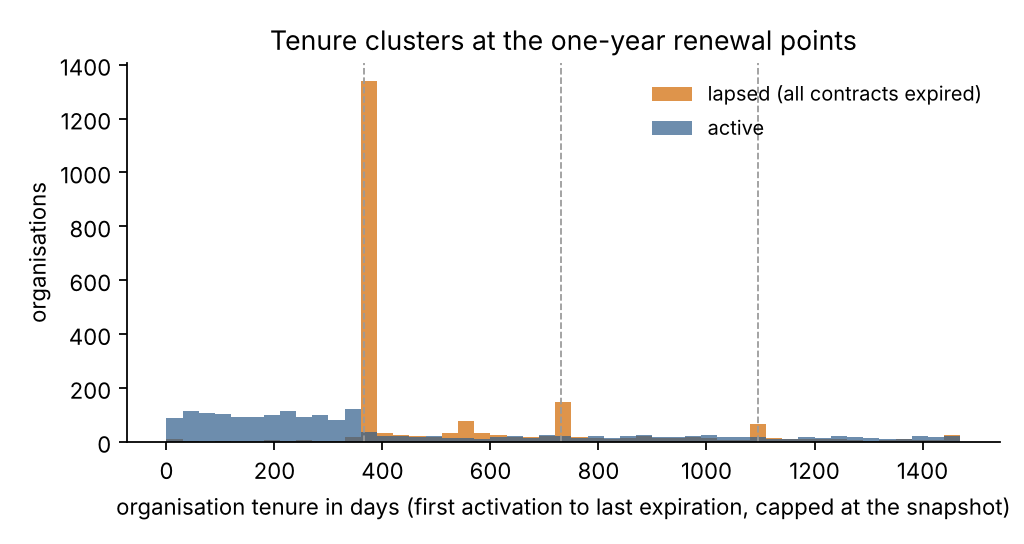
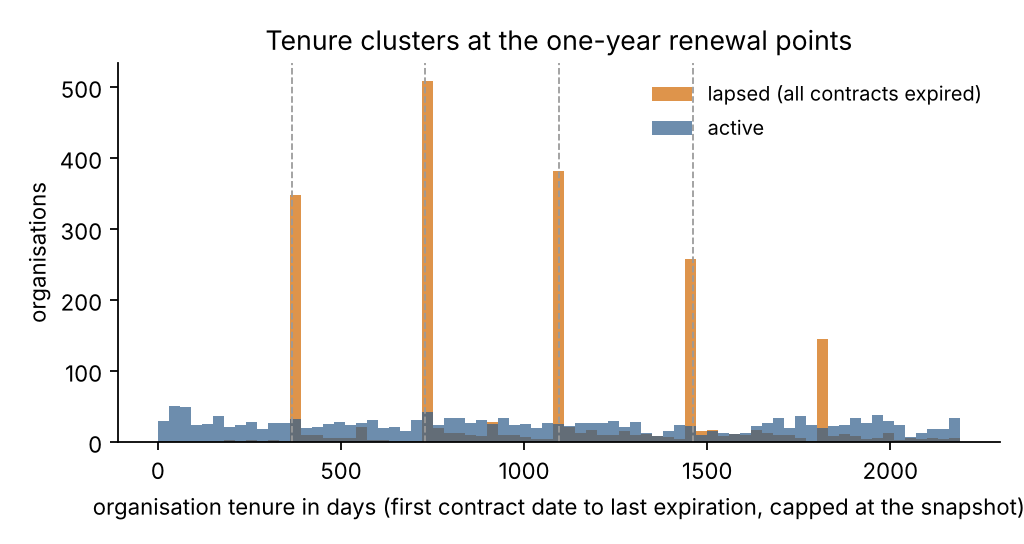
activation_date is the current term start, not the activation: tenure and new-customer counts from contract_date

diff --git a/scripts/fleet_snapshot_findings.py b/scripts/fleet_snapshot_findings.py
@@ -86,33 +86,47 @@ def fig_anomaly_combos(an: pd.DataFrame, out: Path):
     return counts, combo
 
 
-def fig_activations(con: pd.DataFrame, out: Path):
-    # 5 rows are dated after the snapshot (pre-registered activations); exclude them and the partial month
-    c = con[(con.activation_date >= "2021-01-01") & (con.activation_date <= SNAP)].copy()
-    c["month"] = c.activation_date.dt.to_period("M").dt.to_timestamp()
-    c["kind"] = np.where(c.prev_device_key.isna(), "first device on the row (organic)", "replacement (previous device recorded)")
-    m = c.groupby(["month", "kind"]).size().unstack(fill_value=0)
+def org_lifecycle_from_contracts(con: pd.DataFrame, org: pd.DataFrame) -> pd.DataFrame:
+    """Organisation start = earliest contract_date (the original sale), end = latest expiration capped at the snapshot.
+
+    `activation_date` is the start of the *current* term and is rolled forward by the CRM at every renewal,
+    so it cannot date the start of a relationship; `contract_date` can.
+    """
+    c = con[~con.is_internal_test].copy()
+    c["start"] = c.contract_date.fillna(c.activation_date)
+    g = c.groupby("org_key").agg(start=("start", "min"), end=("expiration_date", "max"))
+    g["end"] = g["end"].clip(upper=SNAP)
+    g["tenure_days"] = (g["end"] - g["start"]).dt.days
+    g = g.join(org.set_index("org_key")[["org_lifecycle_status", "is_internal_test"]], how="left")
+    g.loc[g.tenure_days < 0, "tenure_days"] = np.nan  # expiration before the first contract date: inconsistent rows
+    return g[g.start.notna()]
+
+
+def fig_new_customers(lifecycle: pd.DataFrame, out: Path):
+    # one point per organisation at its first contract date; the partial month is excluded
+    s = lifecycle[(lifecycle.start >= "2021-01-01") & (lifecycle.start < SNAP.to_period("M").to_timestamp())]
+    m = s.groupby(s.start.dt.to_period("M").dt.to_timestamp()).size()
     fig, ax = plt.subplots(figsize=(7, 3.4))
-    ax.stackplot(m.index, [m.iloc[:, 0], m.iloc[:, 1]], labels=list(m.columns), colors=[C1, C2], alpha=0.9)
-    ax.set_title("Device activations per month, 2021-01 to 2026-09 (Sep. partial, to the 28th)")
-    ax.set_ylabel("contract rows activated")
-    ax.legend(loc="upper left", frameon=False, fontsize=8)
+    ax.plot(m.index, m.values, color=C1)
+    ax.set_title("New customer organisations per month (first contract date), 2021-01 to 2026-08")
+    ax.set_ylabel("organisations")
+    ax.set_ylim(0, None)
     ax.spines[["top", "right"]].set_visible(False)
     fig.tight_layout()
-    fig.savefig(out / "04_activations_per_month.png", dpi=160)
+    fig.savefig(out / "04_new_customers_per_month.png", dpi=160)
     plt.close(fig)
     return m
 
 
-def fig_tenure(org: pd.DataFrame, out: Path):
-    o = org[~org.is_internal_test & org.tenure_days.notna() & (org.tenure_days >= 0)]
+def fig_tenure(lifecycle: pd.DataFrame, out: Path):
+    o = lifecycle[lifecycle.tenure_days.notna()]
     fig, ax = plt.subplots(figsize=(6.4, 3.4))
-    bins = np.arange(0, 1500, 30)
+    bins = np.arange(0, 2200, 30)
     ax.hist(o.loc[o.org_lifecycle_status == "lapsed", "tenure_days"], bins=bins, color=C2, alpha=0.85, label="lapsed (all contracts expired)")
     ax.hist(o.loc[o.org_lifecycle_status == "active", "tenure_days"], bins=bins, color=C1, alpha=0.7, label="active")
-    for d in (365, 730, 1095):
+    for d in (365, 730, 1095, 1460):
         ax.axvline(d, color=C4, lw=0.8, ls="--")
-    ax.set_xlabel("organisation tenure in days (first activation to last expiration, capped at the snapshot)")
+    ax.set_xlabel("organisation tenure in days (first contract date to last expiration, capped at the snapshot)")
     ax.set_ylabel("organisations")
     ax.set_title("Tenure clusters at the one-year renewal points")
     ax.legend(frameon=False, fontsize=9)
@@ -144,8 +158,9 @@ def main(argv=None):
     g_hw = fig_online_by_hw(dev, figs)
     modes = fig_mode_mix(dev, figs)
     combos, combo = fig_anomaly_combos(an, figs)
-    act = fig_activations(con, figs)
-    ten = fig_tenure(org, figs)
+    life = org_lifecycle_from_contracts(con, org)
+    fig_new_customers(life, figs)
+    fig_tenure(life, figs)
 
     online = (rep.connect_status == "Online").mean()
     lowbatt = (rep["mode"] == "LowBattery").mean()
@@ -177,15 +192,15 @@ def main(argv=None):
     # customers
     o = org[~org.is_internal_test]
     status = o.org_lifecycle_status.value_counts()
-    q = o.tenure_days.dropna().quantile([0.1, 0.25, 0.5, 0.75, 0.9]).round(0).astype(int)
+    q = life.tenure_days.dropna().quantile([0.1, 0.25, 0.5, 0.75, 0.9]).round(0).astype(int)
     fleet = o.vehicles_ever.dropna()
     term = (con.expiration_date - con.activation_date).dt.days
     one_year = (term == 365).sum() / term.notna().sum()
-    returns = con[con.return_date.notna() & con.activation_date.notna()]
-    life = (returns.return_date - returns.activation_date).dt.days
-    life = life[life >= 0]  # 25 rows have a return date before activation (see data-quality report)
-    act_year = con.activation_date.dt.year.value_counts().sort_index()
-    repl_share_2026 = (con[(con.activation_date.dt.year == 2026)].prev_device_key.notna()).mean()
+    gap = (con.activation_date - con.contract_date).dt.days.dropna()
+    rolled = ((gap - (gap / 365).round() * 365).abs() <= 7).mean()
+    renewed_rows = (gap >= 300).mean()
+    new_year = life.start.dt.year.value_counts().sort_index()
+    repl_rows_2026 = con[(con.activation_date.dt.year == 2026) & ~con.is_internal_test].prev_device_key.notna().mean()
     make = veh.make.value_counts(normalize=True)
 
     md = f"""# Fleet snapshot findings — 2026-09-28
@@ -217,12 +232,12 @@ Computed from the public tables by `scripts/fleet_snapshot_findings.py`. "Custom
 
 - **{len(o):,} organisations** appear across the CRM, the app master and the contract history. Lifecycle at the snapshot: **{status.get('active', 0):,} active**, **{status.get('lapsed', 0):,} lapsed** (every contract expired, none active), {status.get('inactive_not_expired', 0):,} inactive but not yet expired, {status.get('no_dates', 0):,} without usable dates.
 - The business is **owner-operator heavy**: median fleet ever contracted is **{fleet.median():.0f} vehicle(s)**, 90 % of organisations have **≤ {fleet.quantile(0.9):.0f}** and 99 % **≤ {fleet.quantile(0.99):.0f}**.
-- Contracts are one-year terms: **{pct(one_year)} of activation→expiration spans are exactly 365 days**, and organisation tenure clusters at the renewal points — 10/25/50/75/90th percentiles of **{q[0.1]}/{q[0.25]}/{q[0.5]}/{q[0.75]}/{q[0.9]} days** (figure 5). The first renewal is the decisive churn moment.
-- Among the {len(life):,} units with a return date, the median lifetime was **{life.median():.0f} days** after activation and **{pct((life < 365).mean())} were returned before the first anniversary** — churn is overwhelmingly a first-year event.
-- Activations grew every year — {', '.join(f'{int(y)}: {int(n):,}' for y, n in act_year.items() if y >= 2021)} (2026 through September) — and in 2026 **{pct(repl_share_2026)} of activations carried a previous device**, i.e. the hardware-generation migration is a large share of volume (figure 4).
+- Contracts are one-year terms: **{pct(one_year)} of activation→expiration spans are exactly 365 days**. `activation_date` is the start of the *current* term, not the day the device went live — the CRM rolls it forward at every renewal ({pct(rolled)} of the activation−contract gaps are whole multiples of 365 days and {pct(renewed_rows)} of rows have been renewed at least once). Time since the sale has to be measured from `contract_date`.
+- Measured that way, organisation tenure (first contract date to last expiration, capped at the snapshot) has 10/25/50/75/90th percentiles of **{q[0.1]}/{q[0.25]}/{q[0.5]}/{q[0.75]}/{q[0.9]} days** and clusters at the anniversaries (figure 5). Which anniversary customers leave at, and how the hazard has moved over time, is the subject of the `eld-subscription-lifecycle` repository.
+- New customer organisations per year (first contract date): {', '.join(f'{int(y)}: {int(n):,}' for y, n in new_year.items() if y >= 2021)} (2026 through August; the earlier years are thinned because the CRM purges rows of customers who left — quantified in `eld-subscription-lifecycle`). Counting `activation_date` instead would show 3,468 "activations" in 2026, most of them renewals of older customers; {pct(repl_rows_2026)} of the rows whose current term started in 2026 carry a previous device, which is the hardware-generation migration, not new business.
 - Vehicles are heavy-duty tractors: **{pct(make.get('Freightliner', 0))} Freightliner, {pct(make.get('Volvo', 0))} Volvo**, median model year {veh.model_year.median():.0f}, **{pct((veh.state == 'CA').mean())} registered in California**.
 
-![activations](figures/04_activations_per_month.png)
+![new customers](figures/04_new_customers_per_month.png)
 ![tenure](figures/05_org_tenure.png)
 
 ## 4. What this snapshot cannot tell you

diff --git a/scripts/make_data_dictionary.py b/scripts/make_data_dictionary.py
@@ -121,14 +121,14 @@ COLS = {
     "contract_rows": "Number of contract rows for the organisation.",
     "contract_rows_active": "Contract rows with status 'active'.",
     "vehicles_ever": "Distinct VINs ever contracted by the organisation.",
-    "first_activation": "Earliest activation date across the organisation's contract rows.",
+    "first_activation": "Earliest activation_date across the organisation's contract rows. activation_date is the start of the current term (rolled forward at renewal), so this is not the start of the relationship; use the earliest contract_date for that.",
     "last_expiration": "Latest expiration date across the organisation's contract rows.",
-    "tenure_days": "last_expiration (capped at 2026-09-28) minus first_activation.",
+    "tenure_days": "last_expiration (capped at 2026-09-28) minus first_activation; understates tenure for renewed customers for the reason given under first_activation.",
     "org_lifecycle_status": "active (≥1 active row) / lapsed (all expired, none active) / inactive_not_expired / no_dates, as of 2026-09-28.",
     # contract
     "eld_type": "Product generation code (rtps47, rtoa47 → gen 1; rtel47 → gen 2; rtps12, rtsa12 → gen 3; rtha55 → gen 4).",
-    "contract_date": "Contract date.",
-    "activation_date": "Device activation date.",
+    "contract_date": "Date the vehicle slot was first sold; inherited by a replacement device.",
+    "activation_date": "Start of the current one-year term. The CRM rolls it forward at each renewal, so it is not the date the device went live.",
     "expiration_date": "Contract expiration date.",
     "return_date": "Device return date, when returned.",
     "vehicle_limit": "Vehicle limit on the contract row.",

diff --git a/reports/fleet_snapshot_2026-09-28.md b/reports/fleet_snapshot_2026-09-28.md
@@ -27,12 +27,12 @@ Computed from the public tables by `scripts/fleet_snapshot_findings.py`. "Custom
 
 - **5,667 organisations** appear across the CRM, the app master and the contract history. Lifecycle at the snapshot: **2,025 active**, **2,224 lapsed** (every contract expired, none active), 359 inactive but not yet expired, 700 without usable dates.
 - The business is **owner-operator heavy**: median fleet ever contracted is **2 vehicle(s)**, 90 % of organisations have **≤ 5** and 99 % **≤ 14**.
-- Contracts are one-year terms: **74.1% of activation→expiration spans are exactly 365 days**, and organisation tenure clusters at the renewal points — 10/25/50/75/90th percentiles of **123/300/365/730/1180 days** (figure 5). The first renewal is the decisive churn moment.
-- Among the 3,808 units with a return date, the median lifetime was **266 days** after activation and **89.9% were returned before the first anniversary** — churn is overwhelmingly a first-year event.
-- Activations grew every year — 2021: 222, 2022: 1,474, 2023: 1,587, 2024: 2,356, 2025: 2,516, 2026: 3,468 (2026 through September) — and in 2026 **82.4% of activations carried a previous device**, i.e. the hardware-generation migration is a large share of volume (figure 4).
+- Contracts are one-year terms: **74.1% of activation→expiration spans are exactly 365 days**. `activation_date` is the start of the *current* term, not the day the device went live — the CRM rolls it forward at every renewal (92.6% of the activation−contract gaps are whole multiples of 365 days and 68.7% of rows have been renewed at least once). Time since the sale has to be measured from `contract_date`.
+- Measured that way, organisation tenure (first contract date to last expiration, capped at the snapshot) has 10/25/50/75/90th percentiles of **365/714/1095/1594/2023 days** and clusters at the anniversaries (figure 5). Which anniversary customers leave at, and how the hazard has moved over time, is the subject of the `eld-subscription-lifecycle` repository.
+- New customer organisations per year (first contract date): 2021: 1,078, 2022: 822, 2023: 763, 2024: 672, 2025: 448, 2026: 294 (2026 through August; the earlier years are thinned because the CRM purges rows of customers who left — quantified in `eld-subscription-lifecycle`). Counting `activation_date` instead would show 3,468 "activations" in 2026, most of them renewals of older customers; 82.4% of the rows whose current term started in 2026 carry a previous device, which is the hardware-generation migration, not new business.
 - Vehicles are heavy-duty tractors: **66.8% Freightliner, 25.1% Volvo**, median model year 2020, **81.6% registered in California**.
 
-![activations](figures/04_activations_per_month.png)
+![new customers](figures/04_new_customers_per_month.png)
 ![tenure](figures/05_org_tenure.png)
 
 ## 4. What this snapshot cannot tell you

diff --git a/data/public/DATA_DICTIONARY.md b/data/public/DATA_DICTIONARY.md
@@ -133,10 +133,10 @@ Grain: org_key. Rows: 5,675.
 | `contract_rows` | float64 | 94% | Number of contract rows for the organisation. |
 | `contract_rows_active` | float64 | 94% | Contract rows with status 'active'. |
 | `vehicles_ever` | float64 | 94% | Distinct VINs ever contracted by the organisation. |
-| `first_activation` | datetime64[ns] | 85% | Earliest activation date across the organisation's contract rows. |
+| `first_activation` | datetime64[ns] | 85% | Earliest activation_date across the organisation's contract rows. activation_date is the start of the current term (rolled forward at renewal), so this is not the start of the relationship; use the earliest contract_date for that. |
 | `last_expiration` | datetime64[ns] | 81% | Latest expiration date across the organisation's contract rows. |
 | `org_lifecycle_status` | object | 94% | active (≥1 active row) / lapsed (all expired, none active) / inactive_not_expired / no_dates, as of 2026-09-28. |
-| `tenure_days` | float64 | 81% | last_expiration (capped at 2026-09-28) minus first_activation. |
+| `tenure_days` | float64 | 81% | last_expiration (capped at 2026-09-28) minus first_activation; understates tenure for renewed customers for the reason given under first_activation. |
 | `in_contracts` | bool | 100% | Organisation present in the contract history. |
 
 ## `fact_contract`
@@ -157,8 +157,8 @@ Grain: contract_row_id. Rows: 13,759.
 | `make` | object | 81% | Vehicle make. |
 | `model_year` | float64 | 99% | Vehicle model year. |
 | `status` | object | 98% | Status field of the source row (meaning depends on table: contract status, vehicle status, account status, top-up status). |
-| `contract_date` | datetime64[ns] | 82% | Contract date. |
-| `activation_date` | datetime64[ns] | 84% | Device activation date. |
+| `contract_date` | datetime64[ns] | 82% | Date the vehicle slot was first sold; inherited by a replacement device. |
+| `activation_date` | datetime64[ns] | 84% | Start of the current one-year term. The CRM rolls it forward at each renewal, so it is not the date the device went live. |
 | `expiration_date` | datetime64[ns] | 78% | Contract expiration date. |
 | `return_date` | datetime64[ns] | 30% | Device return date, when returned. |
 | `vehicle_limit` | float64 | 100% | Vehicle limit on the contract row. |

diff --git a/README.md b/README.md
@@ -24,8 +24,8 @@ Full report with figures: [`reports/fleet_snapshot_2026-09-28.md`](reports/fleet
 | Batch signal | The newest **"Volvo 2026" batch has 98 % moving-while-silent reports versus 33–61 % for regular batches** — a protocol / wiring problem on new model-year trucks, not random hardware failure. |
 | Support blind spot | Only **1 of the 14 chronic customer devices ever appears in the field-issue tracker** (Apr–Sep 2026), and not for an engine-data complaint. Monitoring finds what the ticket queue does not. |
 | Customer base | Owner-operator heavy: median organisation contracted **2 vehicles**, 90 % ≤ 5. 2,025 organisations active, 2,224 lapsed. |
-| Renewal cliff | **74 % of contract terms are exactly 365 days**; organisation tenure clusters at 365 / 730 / 1,095 days and **90 % of returned units came back before their first anniversary** — churn is a first-renewal event (figure below). |
-| Migration | Activations grew every year (222 in 2021 → 3,468 in Jan–Sep 2026) and **82 % of 2026 activations replaced an earlier device**, i.e. volume is dominated by the hardware-generation migration. |
+| Term dates | **74 % of contract terms are exactly 365 days**, and `activation_date` is the start of the *current* term — the CRM rolls it forward at each renewal (93 % of activation−contract gaps are whole years), so it must not be read as the day the device went live. Tenure measured from `contract_date` clusters at the anniversaries (figure below); the renewal hazard itself is analysed in [`eld-subscription-lifecycle`](https://github.com/JacobCCMorgan/eld-subscription-lifecycle). |
+| Migration | 82 % of the rows whose current term started in 2026 carry a previous device: the hardware-generation migration dominates the renewal workload. New customer organisations run at a few hundred a year, not the thousands a naive count of `activation_date` suggests. |
 
 ![tenure](reports/figures/05_org_tenure.png)
 ![anomaly combinations](reports/figures/03_anomaly_combinations.png)
